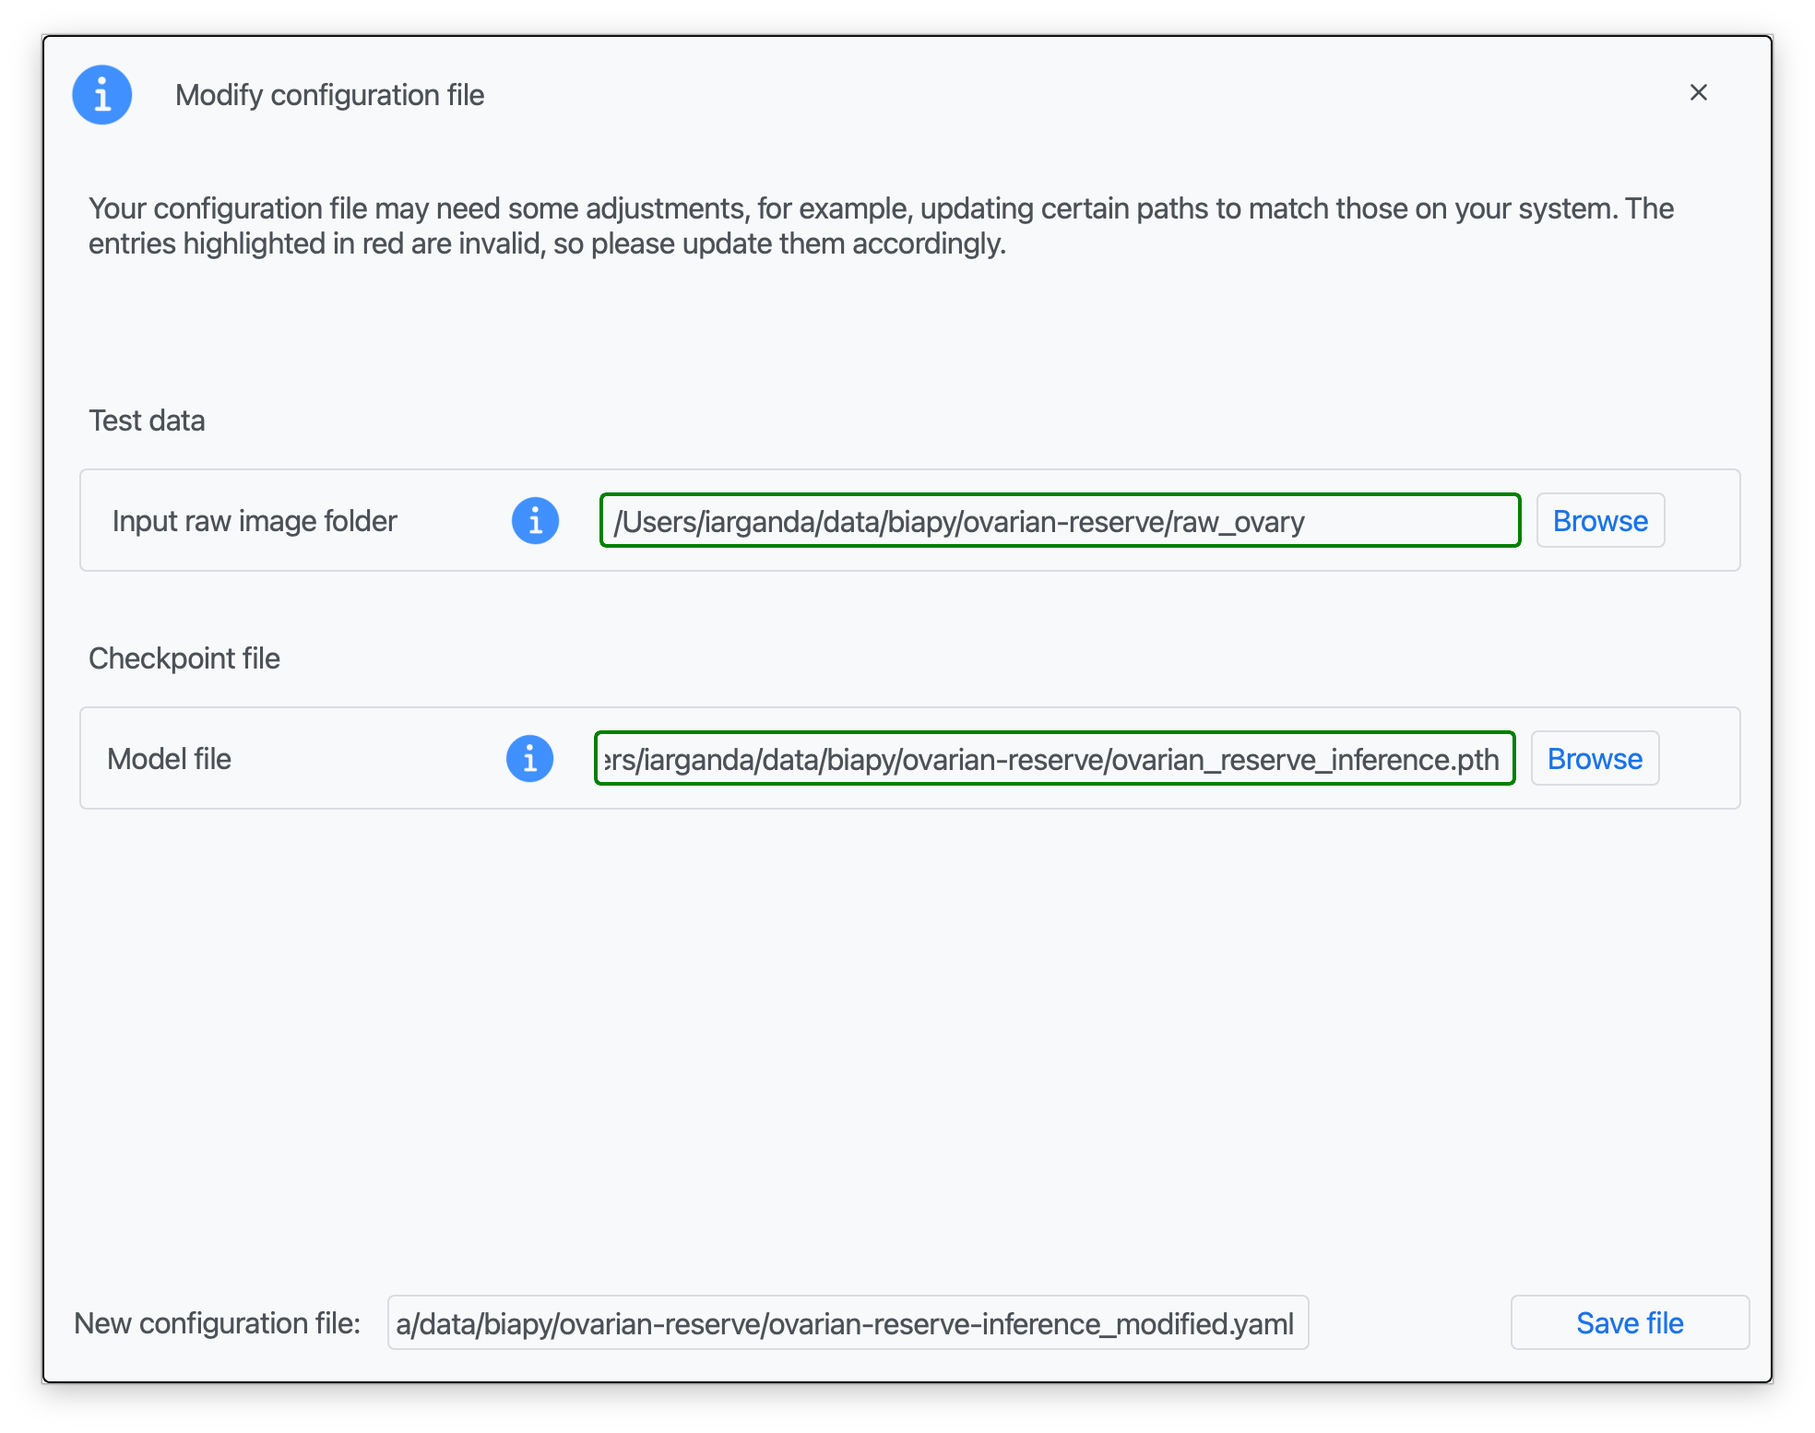
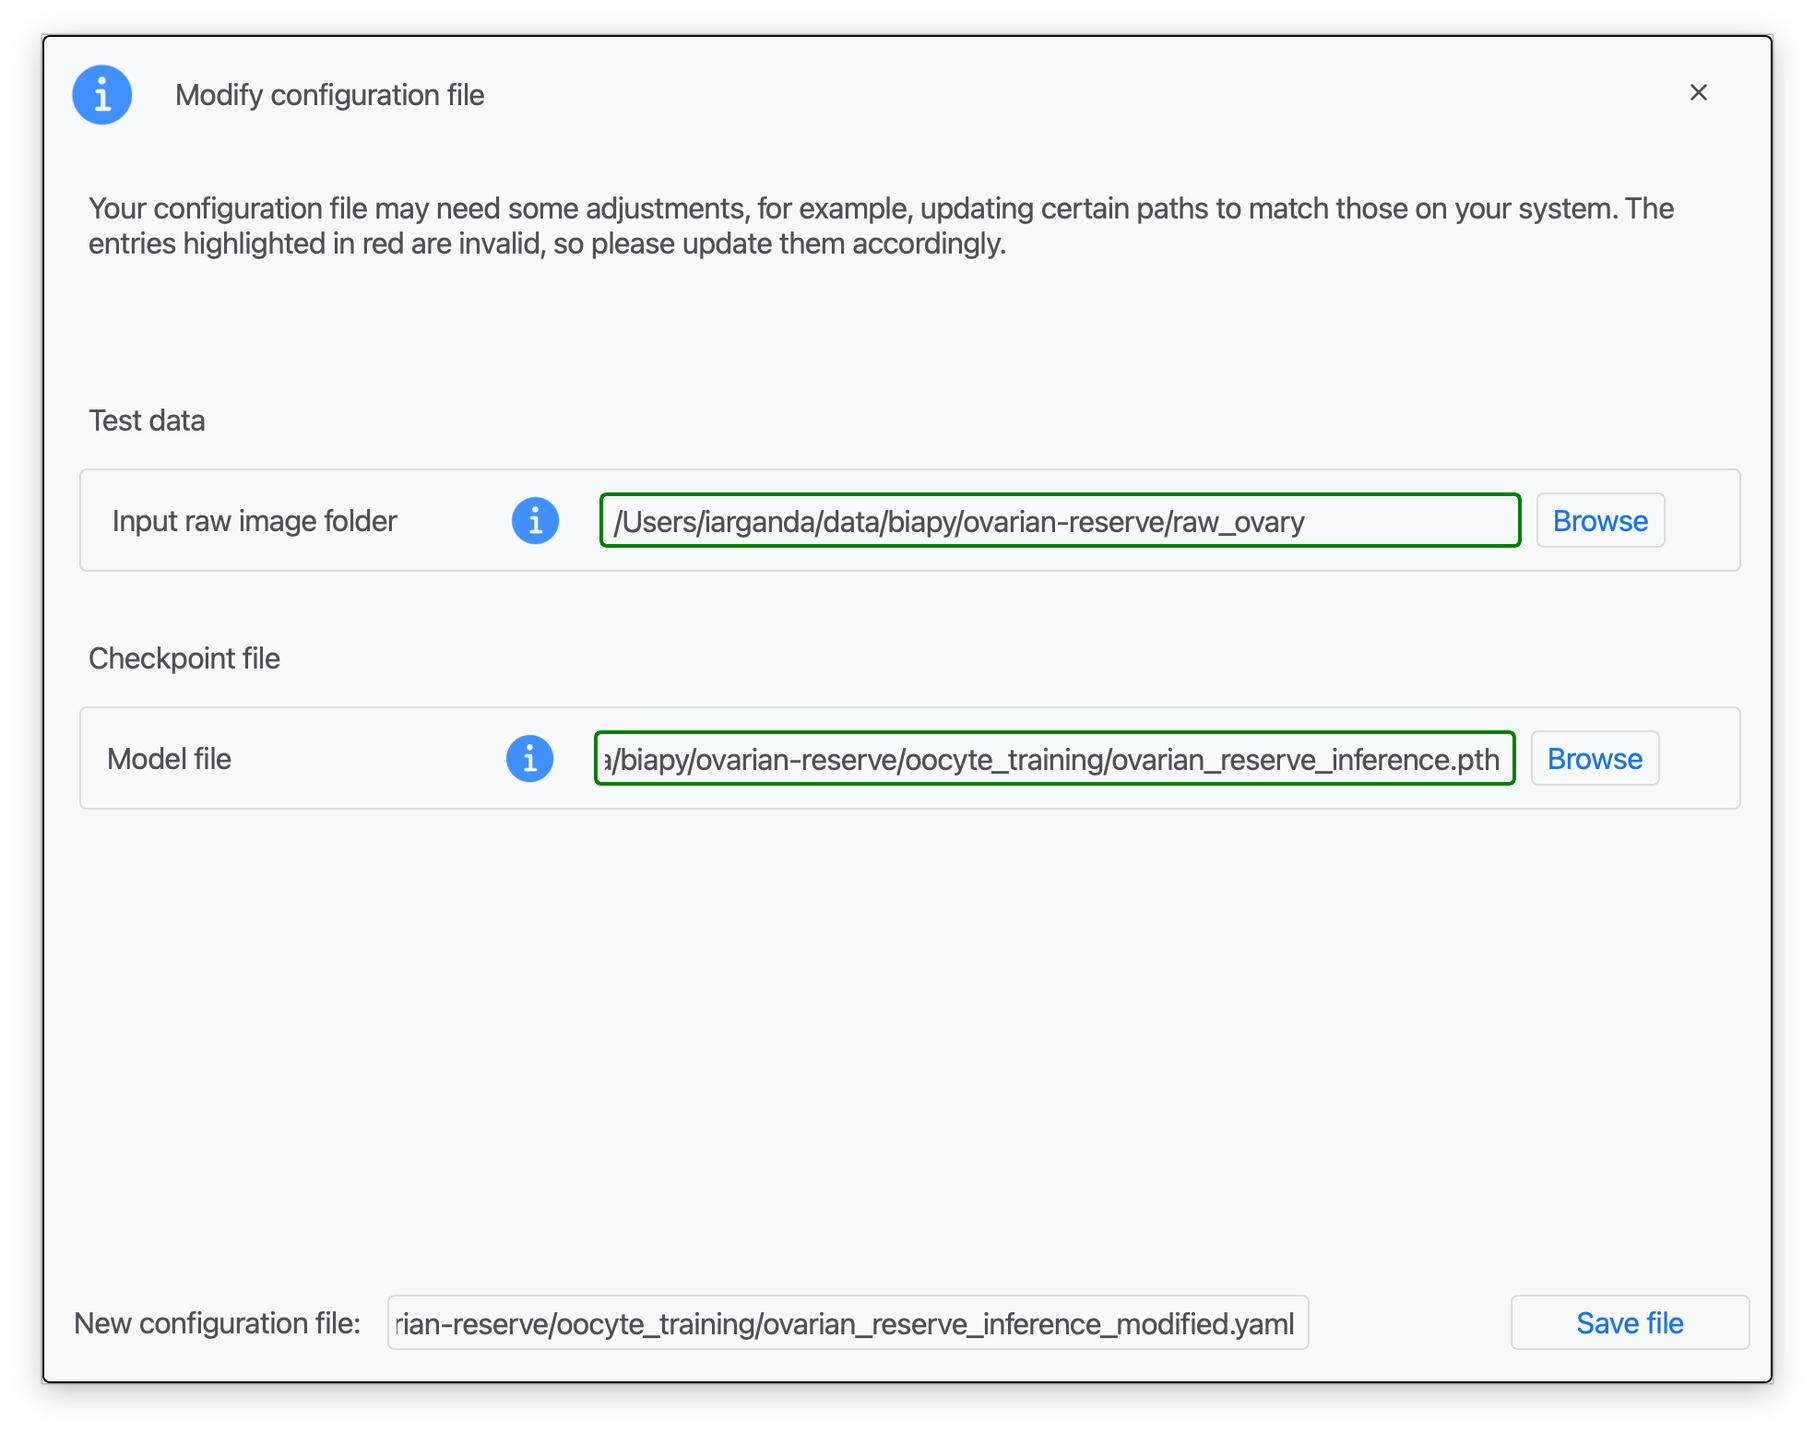
Update ovarian reserve tutorial.
- Use new version of the dataset, with a validation subset.
- Use new templates (now hosted in GitHub as well).
- Use new link to data (in OneDrive).

Changed region(s): [[0.217, 0.8958, 0.5269, 0.9575], [0.341, 0.5251, 0.6199, 0.556]]

diff --git a/source/tutorials/instance_seg/ovarian-reserve.rst b/source/tutorials/instance_seg/ovarian-reserve.rst
@@ -59,23 +59,33 @@ This tutorial uses two datasets. Note that they represent a **small but represen
 
 The datasets are presented in the natural order of the workflow: first the training data (used to learn the model), then the test data (used to evaluate it).
 
-* **Training dataset (sample)**: ``oocyte_training.zip`` (240.9 MB) containing a curated set of paired 3D raw and label image volumes, sufficient to train or fine-tune the segmentation model: `Google Drive link <https://drive.google.com/file/d/1xA2b9nY1KuIGC-ZjYg--MXQ8r8GSyOwP/view?usp=sharing>`__.
+* **Training dataset (sample)**: ``oocyte_training.zip`` (240.9 MB) containing a curated set of paired 3D raw and label image volumes split into training and validation subsets, sufficient to train or fine-tune the segmentation model: `OneDrive link <https://upvehueus-my.sharepoint.com/:u:/g/personal/ignacio_arganda_ehu_eus/IQBlTg1-y8MlSqwgDpLZuPAgAU5oE0HOqc6vjDK7vVh_xBM?e=MMgzZf&download=1>`__.
 
   Once unzipped, you should find the following directory tree:
 
   .. code-block::
 
     oocyte_training/
-    ├── raw/
-    │   ├── 10W_100330_frame70.tif
-    │   ├── 10W_105114_1.tif
-    │   ├── ...
-    │   └── 5W_150806_frame54.tif
-    └── label/
-        ├── 10W_100330_frame70.tif
-        ├── 10W_105114_1.tif
-        ├── ...
-        └── 5W_150806_frame54.tif
+    ├── train/
+    │   ├── raw/
+    │   │   ├── 10W_100330_frame70.tif
+    │   │   ├── 10W_105114_1.tif
+    │   │   ├── ...
+    │   │   └── 5W_150806_frame54.tif
+    │   └── label/
+    │       ├── 10W_100330_frame70.tif
+    │       ├── 10W_105114_1.tif
+    │       ├── ...
+    │       └── 5W_150806_frame54.tif
+    └── val/
+        ├── raw/
+        │   ├── 10W_100330_fram195.tif
+        │   ├── ...
+        │   └── 5W_130858_frame89.tif
+        └── label/
+            ├── 10W_100330_fram195.tif
+            ├── ...
+            └── 5W_130858_frame89.tif
 
 * **Test dataset (Zenodo)**: ``raw_ovary.rar`` (13.0 GB) containing seven full 3D ovary volumes covering a range of ages (5, 10, 22, 31, 40, 50, and 60 weeks) in TIFF format. These are a subset of the ovaries analyzed in the paper and serve as the held-out test set: `Zenodo link <https://zenodo.org/records/19085211>`__.
 
@@ -108,15 +118,15 @@ Model training
 
 Again, **BiaPy** offers different options to run this training workflow depending on your level of computer expertise. Select the one that is most appropriate for you:
 
-This training setup uses the **Google Drive sample dataset** (``oocyte_training.zip``) as training data and the **Zenodo ovary volumes** (``raw_ovary.rar``) as the test set (see `Data preparation`_).
+This training setup uses the **OneDrive sample dataset** (``oocyte_training.zip``) as training data and the **Zenodo ovary volumes** (``raw_ovary.rar``) as the test set (see `Data preparation`_).
 
 Download the training YAML file here:
 
-* :download:`ovarian-reserve-training.yaml <ovarian-reserve-training.yaml>`
+* :download:`ovarian_reserve_training.yaml <ovarian_reserve_training.yaml>`
 
-.. collapse:: Expand to preview ovarian-reserve-training.yaml
+.. collapse:: Expand to preview ovarian_reserve_training.yaml
 
-   .. literalinclude:: ovarian-reserve-training.yaml
+   .. literalinclude:: ovarian_reserve_training.yaml
       :language: yaml
 
 .. raw:: html
@@ -131,7 +141,7 @@ Download the training YAML file here:
 
    .. tab:: GUI
 
-      First, download the training configuration file :download:`ovarian-reserve-training.yaml <ovarian-reserve-training.yaml>`.
+      First, download the training configuration file :download:`ovarian_reserve_training.yaml <ovarian_reserve_training.yaml>`.
 
       Next, in BiaPy's GUI, follow the following instructions:
 
@@ -144,7 +154,7 @@ Download the training YAML file here:
 
         .. figure:: ../../img/tutorials/instance-segmentation/ovarian-reserve/GUI-load-and-modify-workflow.png
 
-            Step 1: Click on "Load and modify workflow" and select the ``ovarian-reserve-training.yaml`` file you just downloaded.
+            Step 1: Click on "Load and modify workflow" and select the ``ovarian_reserve_training.yaml`` file you just downloaded.
 
         .. figure:: ../../img/tutorials/instance-segmentation/ovarian-reserve/GUI-load-information.png
 
@@ -152,7 +162,7 @@ Download the training YAML file here:
 
         .. figure:: ../../img/tutorials/instance-segmentation/ovarian-reserve/GUI-modify-configuration-file-train.png
 
-            Step 3: Introduce the paths to your training raw and label data from ``oocyte_training/`` (Google Drive sample dataset), set the test path to ``raw_ovary/`` (Zenodo), and type a name for your modified configuration file (see `Data preparation`_; red boxes indicate missing information).
+            Step 3: Introduce the paths to your training raw and label data (``oocyte_training/train/raw/`` and ``oocyte_training/train/label/``), validation data (``oocyte_training/val/raw/`` and ``oocyte_training/val/label/``), set the test path to ``raw_ovary/`` (Zenodo), and type a name for your modified configuration file (see `Data preparation`_; red boxes indicate missing information).
 
         .. figure:: ../../img/tutorials/instance-segmentation/ovarian-reserve/GUI-modify-configuration-file-train-filled.png
 
@@ -184,7 +194,7 @@ Download the training YAML file here:
 
    .. tab:: Google Colab
 
-      For now, you can use the `BiaPy 3D Instance Segmentation notebook <https://colab.research.google.com/github/BiaPyX/BiaPy/blob/master/notebooks/instance_segmentation/BiaPy_3D_Instance_Segmentation.ipynb>`__ in Google Colab and match its existing options to the same setup defined in :download:`ovarian-reserve-training.yaml <ovarian-reserve-training.yaml>` (training data from ``oocyte_training/`` and test data from ``raw_ovary/``; see `Data preparation`_).
+      For now, you can use the `BiaPy 3D Instance Segmentation notebook <https://colab.research.google.com/github/BiaPyX/BiaPy/blob/master/notebooks/instance_segmentation/BiaPy_3D_Instance_Segmentation.ipynb>`__ in Google Colab and match its existing options to the same setup defined in :download:`ovarian_reserve_training.yaml <ovarian_reserve_training.yaml>` (training data from ``oocyte_training/train/``, validation data from ``oocyte_training/val/``, and test data from ``raw_ovary/``; see `Data preparation`_).
 
       .. tip:: If you need additional help, watch BiaPy's `Notebook walkthrough video <https://youtu.be/KEqfio-EnYw>`__.
 
@@ -192,17 +202,17 @@ Download the training YAML file here:
 
       Open BiaPy in Galaxy using this `launch link <https://imaging.usegalaxy.eu/?tool_id=toolshed.g2.bx.psu.edu%2Frepos%2Fiuc%2Fbiapy%2Fbiapy%2F3.6.5%2Bgalaxy0&version=latest>`__.
 
-      Then upload your training raw/label images from ``oocyte_training/``, upload the test volumes from ``raw_ovary/`` (see `Data preparation`_), select :download:`ovarian-reserve-training.yaml <ovarian-reserve-training.yaml>` as configuration file, and run the job.
+      Then upload your training raw/label images from ``oocyte_training/train/``, validation raw/label images from ``oocyte_training/val/``, upload the test volumes from ``raw_ovary/`` (see `Data preparation`_), select :download:`ovarian_reserve_training.yaml <ovarian_reserve_training.yaml>` as configuration file, and run the job.
 
    .. tab:: Docker
 
-      First, download the training configuration file :download:`ovarian-reserve-training.yaml <ovarian-reserve-training.yaml>` and edit it to set the correct paths to the training data and labels from ``oocyte_training/`` and the test set from ``raw_ovary/`` (see `Data preparation`_).
+      First, download the training configuration file :download:`ovarian_reserve_training.yaml <ovarian_reserve_training.yaml>` and edit it to set the correct paths to ``oocyte_training/train/raw/``, ``oocyte_training/train/label/``, ``oocyte_training/val/raw/``, ``oocyte_training/val/label/`` and the test set from ``raw_ovary/`` (see `Data preparation`_).
 
       Then, open a terminal as described in :ref:`installation` and execute the following commands:
 
       .. code-block:: bash
 
-         job_cfg_file=/home/user/ovarian-reserve-training.yaml
+         job_cfg_file=/home/user/ovarian_reserve_training.yaml
          data_dir=/home/user/data
          result_dir=/home/user/exp_results
          job_name=my_ovarian_reserve_training
@@ -223,17 +233,17 @@ Download the training YAML file here:
                --gpu "$gpu_number"
 
       .. note::
-          Note that ``data_dir`` must contain all the paths referenced by ``DATA.TRAIN.PATH``, ``DATA.TRAIN.GT_PATH`` and ``DATA.TEST.PATH`` so the container can find them.
+          Note that ``data_dir`` must contain all the paths referenced by ``DATA.TRAIN.PATH``, ``DATA.TRAIN.GT_PATH``, ``DATA.VAL.PATH``, ``DATA.VAL.GT_PATH`` and ``DATA.TEST.PATH`` so the container can find them.
 
    .. tab:: Command line
 
-      First, download the training configuration file :download:`ovarian-reserve-training.yaml <ovarian-reserve-training.yaml>` and edit it to set the correct paths to the training data and labels from ``oocyte_training/`` and the test set from ``raw_ovary/`` (see `Data preparation`_).
+      First, download the training configuration file :download:`ovarian_reserve_training.yaml <ovarian_reserve_training.yaml>` and edit it to set the correct paths to ``oocyte_training/train/raw/``, ``oocyte_training/train/label/``, ``oocyte_training/val/raw/``, ``oocyte_training/val/label/`` and the test set from ``raw_ovary/`` (see `Data preparation`_).
 
       Next, run the following commands from a terminal:
 
       .. code-block:: bash
 
-         job_cfg_file=/home/user/ovarian-reserve-training.yaml
+         job_cfg_file=/home/user/ovarian_reserve_training.yaml
          result_dir=/home/user/exp_results
          job_name=my_ovarian_reserve_training
          job_counter=1
@@ -257,13 +267,13 @@ Download the training YAML file here:
 
    .. tab:: API
 
-      If you prefer to integrate the workflow into your own Python code, you can run the same training setup through the **BiaPy** API once ``DATA.TRAIN.PATH``, ``DATA.TRAIN.GT_PATH`` and ``DATA.TEST.PATH`` are correctly defined in :download:`ovarian-reserve-training.yaml <ovarian-reserve-training.yaml>` (see `Data preparation`_).
+      If you prefer to integrate the workflow into your own Python code, you can run the same training setup through the **BiaPy** API once ``DATA.TRAIN.PATH``, ``DATA.TRAIN.GT_PATH``, ``DATA.VAL.PATH``, ``DATA.VAL.GT_PATH`` and ``DATA.TEST.PATH`` are correctly defined in :download:`ovarian_reserve_training.yaml <ovarian_reserve_training.yaml>` (see `Data preparation`_).
 
       .. code-block:: python
 
          from biapy import BiaPy
 
-         config_path = "/home/user/ovarian-reserve-training.yaml"
+         config_path = "/home/user/ovarian_reserve_training.yaml"
          result_dir = "/home/user/exp_results"
          job_name = "my_ovarian_reserve_training"
 
@@ -278,11 +288,11 @@ Again, **BiaPy** offers different options to run this prediction workflow (also 
 
 Download the prediction YAML file here:
 
-* :download:`ovarian-reserve-inference.yaml <ovarian-reserve-inference.yaml>`
+* :download:`ovarian_reserve_inference.yaml <ovarian_reserve_inference.yaml>`
 
-.. collapse:: Expand to preview ovarian-reserve-inference.yaml
+.. collapse:: Expand to preview ovarian_reserve_inference.yaml
 
-   .. literalinclude:: ovarian-reserve-inference.yaml
+   .. literalinclude:: ovarian_reserve_inference.yaml
       :language: yaml
 
 .. raw:: html
@@ -297,7 +307,7 @@ Download the prediction YAML file here:
 
    .. tab:: GUI
 
-      First, download the prediction configuration file :download:`ovarian-reserve-inference.yaml <ovarian-reserve-inference.yaml>` and prepare a pretrained ``.pth`` model checkpoint (either your own from `Model training`_ or a future official release).
+      First, download the prediction configuration file :download:`ovarian_reserve_inference.yaml <ovarian_reserve_inference.yaml>` and prepare a pretrained ``.pth`` model checkpoint (either your own from `Model training`_ or a future official release).
 
       Next, in BiaPy's GUI, follow the following instructions:
 
@@ -310,7 +320,7 @@ Download the prediction YAML file here:
 
         .. figure:: ../../img/tutorials/instance-segmentation/ovarian-reserve/GUI-load-and-modify-workflow.png
 
-            Step 1: Click on "Load and modify workflow" and select the ``ovarian-reserve-inference.yaml`` file you just downloaded.
+            Step 1: Click on "Load and modify workflow" and select the ``ovarian_reserve_inference.yaml`` file you just downloaded.
 
         .. figure:: ../../img/tutorials/instance-segmentation/ovarian-reserve/GUI-load-information.png
 
@@ -350,7 +360,7 @@ Download the prediction YAML file here:
 
    .. tab:: Google Colab
 
-      Open the BiaPy inference notebook `here <https://colab.research.google.com/github/BiaPyX/BiaPy/blob/master/notebooks/BiaPy_Inference.ipynb>`__ and follow its instructions to run the prediction workflow with :download:`ovarian-reserve-inference.yaml <ovarian-reserve-inference.yaml>`.
+      Open the BiaPy inference notebook `here <https://colab.research.google.com/github/BiaPyX/BiaPy/blob/master/notebooks/BiaPy_Inference.ipynb>`__ and follow its instructions to run the prediction workflow with :download:`ovarian_reserve_inference.yaml <ovarian_reserve_inference.yaml>`.
 
       .. tip:: If you need additional help, watch BiaPy's `Notebook walkthrough video <https://youtu.be/KEqfio-EnYw>`__.
 
@@ -358,17 +368,17 @@ Download the prediction YAML file here:
 
       Open BiaPy in Galaxy using this `launch link <https://imaging.usegalaxy.eu/?tool_id=toolshed.g2.bx.psu.edu%2Frepos%2Fiuc%2Fbiapy%2Fbiapy%2F3.6.5%2Bgalaxy0&version=latest>`__.
 
-      Then upload your TIFF images from ``raw_ovary/`` (see `Data preparation`_), upload :download:`ovarian-reserve-inference.yaml <ovarian-reserve-inference.yaml>`, provide the checkpoint file, and run the job to download the predictions.
+      Then upload your TIFF images from ``raw_ovary/`` (see `Data preparation`_), upload :download:`ovarian_reserve_inference.yaml <ovarian_reserve_inference.yaml>`, provide the checkpoint file, and run the job to download the predictions.
 
    .. tab:: Docker
 
-      First, download the prediction configuration file :download:`ovarian-reserve-inference.yaml <ovarian-reserve-inference.yaml>` and prepare a pretrained checkpoint. Next edit the configuration file to set the correct path to your test data folder from ``raw_ovary/`` (``DATA.TEST.PATH``) and the pretrained model (``PATHS.CHECKPOINT_FILE``).
+      First, download the prediction configuration file :download:`ovarian_reserve_inference.yaml <ovarian_reserve_inference.yaml>` and prepare a pretrained checkpoint. Next edit the configuration file to set the correct path to your test data folder from ``raw_ovary/`` (``DATA.TEST.PATH``) and the pretrained model (``PATHS.CHECKPOINT_FILE``).
 
       Then, open a terminal as described in :ref:`installation` and execute the following commands:
 
       .. code-block:: bash
 
-         job_cfg_file=/home/user/ovarian-reserve-inference.yaml
+         job_cfg_file=/home/user/ovarian_reserve_inference.yaml
          data_dir=/home/user/raw_ovary
          result_dir=/home/user/exp_results
          job_name=my_ovarian_reserve_test
@@ -393,13 +403,13 @@ Download the prediction YAML file here:
 
    .. tab:: Command line
 
-      First, download the prediction configuration file :download:`ovarian-reserve-inference.yaml <ovarian-reserve-inference.yaml>` and prepare a pretrained checkpoint. Next edit the configuration file to set the correct path to your test data folder from ``raw_ovary/`` (``DATA.TEST.PATH``) and the pretrained model (``PATHS.CHECKPOINT_FILE``; see `Data preparation`_).
+      First, download the prediction configuration file :download:`ovarian_reserve_inference.yaml <ovarian_reserve_inference.yaml>` and prepare a pretrained checkpoint. Next edit the configuration file to set the correct path to your test data folder from ``raw_ovary/`` (``DATA.TEST.PATH``) and the pretrained model (``PATHS.CHECKPOINT_FILE``; see `Data preparation`_).
 
       Next, run the following commands from a terminal:
 
       .. code-block:: bash
 
-         job_cfg_file=/home/user/ovarian-reserve-inference.yaml
+         job_cfg_file=/home/user/ovarian_reserve_inference.yaml
          result_dir=/home/user/exp_results
          job_name=my_ovarian_reserve_test
          job_counter=1
@@ -423,13 +433,13 @@ Download the prediction YAML file here:
 
    .. tab:: API
 
-      If you prefer to integrate the workflow into your own Python code, you can run the same prediction setup through the **BiaPy** API once ``DATA.TEST.PATH`` and ``PATHS.CHECKPOINT_FILE`` are correctly defined in :download:`ovarian-reserve-inference.yaml <ovarian-reserve-inference.yaml>` (see `Data preparation`_).
+      If you prefer to integrate the workflow into your own Python code, you can run the same prediction setup through the **BiaPy** API once ``DATA.TEST.PATH`` and ``PATHS.CHECKPOINT_FILE`` are correctly defined in :download:`ovarian_reserve_inference.yaml <ovarian_reserve_inference.yaml>` (see `Data preparation`_).
 
       .. code-block:: python
 
          from biapy import BiaPy
 
-         config_path = "/home/user/ovarian-reserve-inference.yaml"
+         config_path = "/home/user/ovarian_reserve_inference.yaml"
          result_dir = "/home/user/exp_results"
          job_name = "my_ovarian_reserve_test"
 
@@ -444,7 +454,7 @@ Results
 
     my_ovarian_reserve_training/
     ├── config_files/
-    │   └── ovarian-reserve-training.yaml
+    │   └── ovarian_reserve_training.yaml
     ├── checkpoints/
     │   └── my_ovarian_reserve_training_1-checkpoint-best.pth
     ├── train_logs/
@@ -467,7 +477,7 @@ Where:
 
     my_ovarian_reserve_test/
     ├── config_files/
-    │   └── ovarian-reserve-inference.yaml
+    │   └── ovarian_reserve_inference.yaml
     └── results/
         └── my_ovarian_reserve_test_1/
             ├── per_image/
